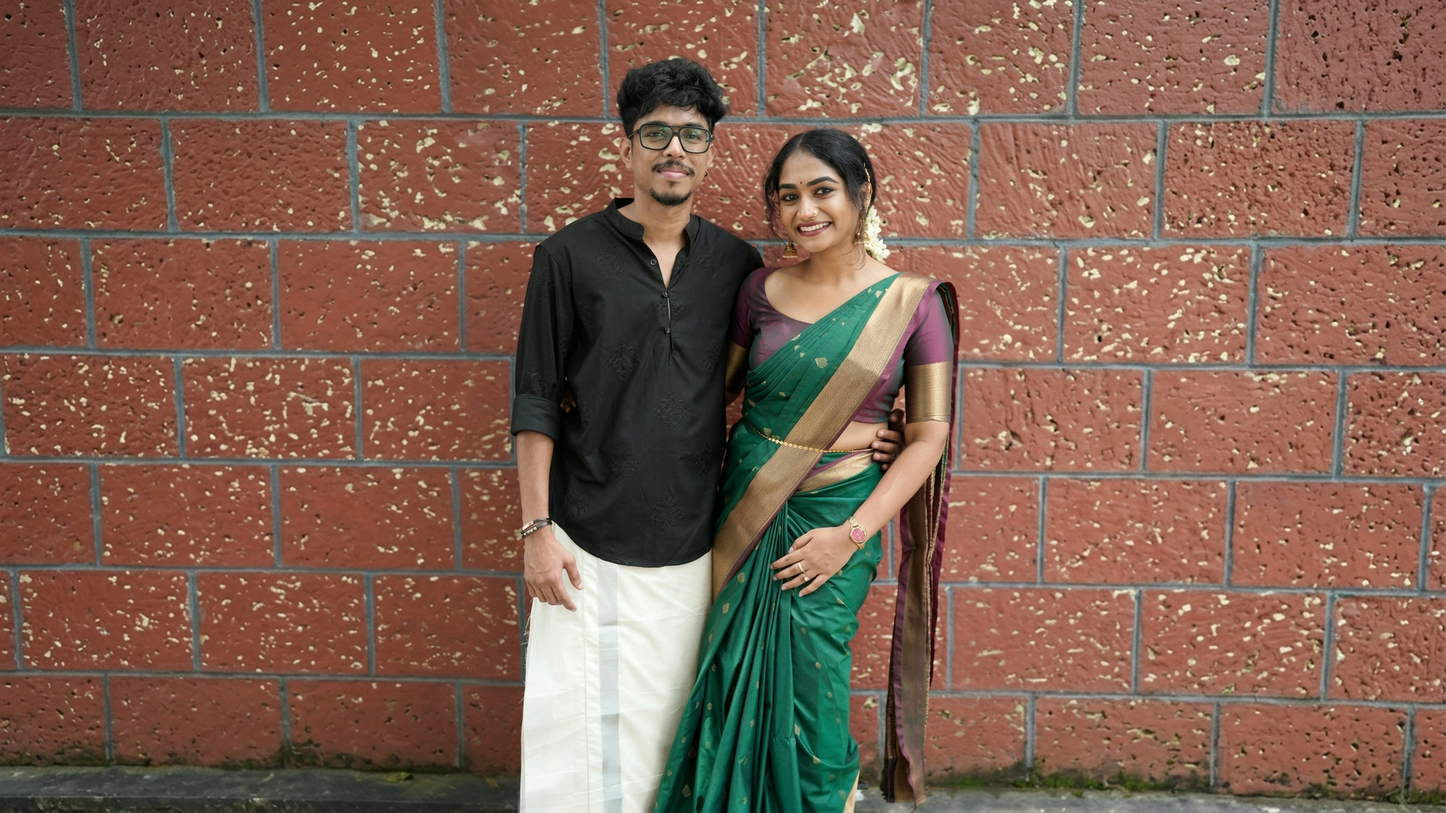
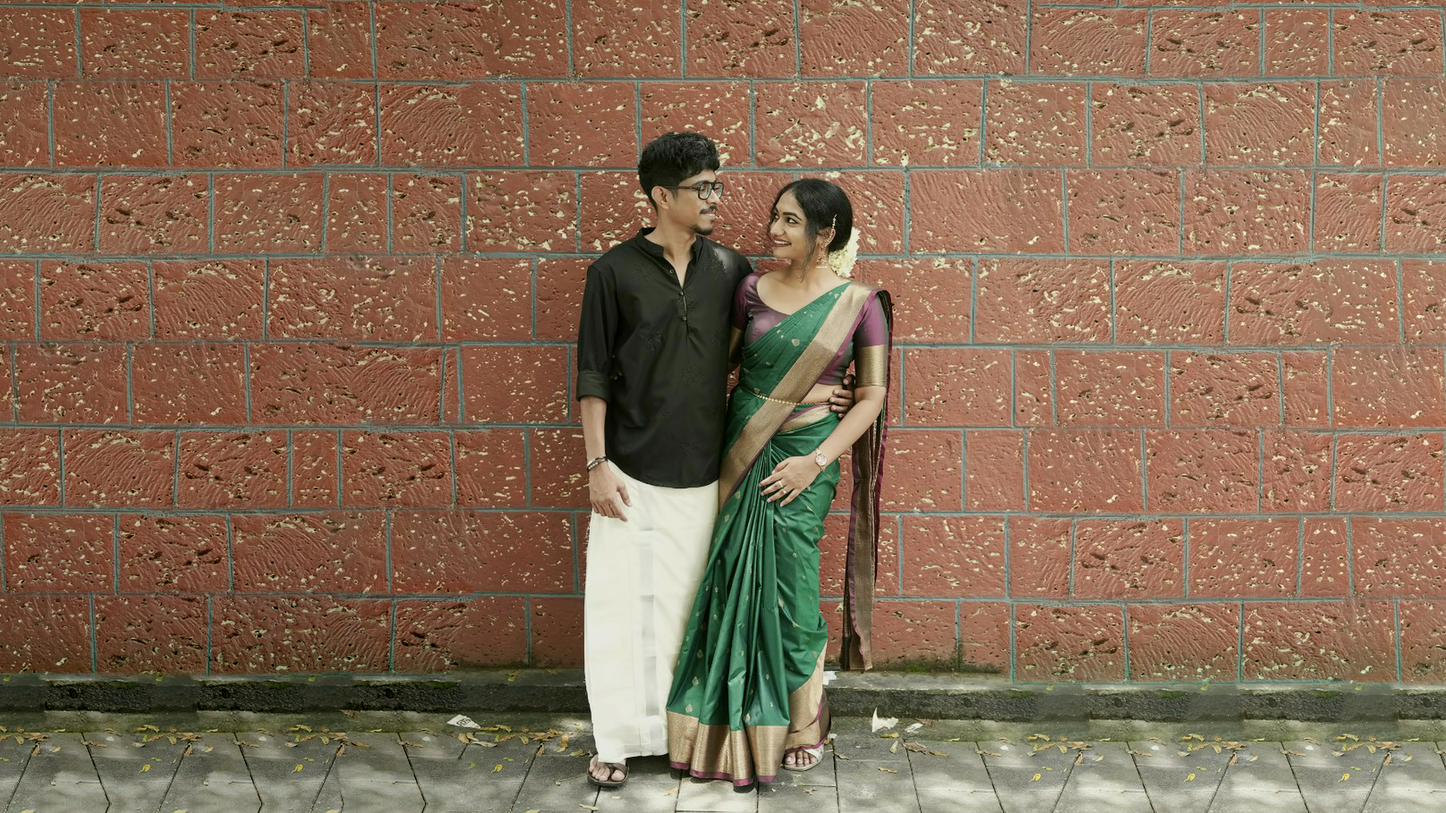
feat: update candid 4K hero portraits with clear mobile framing and 160+ year Kodanat Mana heritage detail

diff --git a/index.html b/index.html
@@ -10,13 +10,13 @@
   <meta property="og:url" content="https://aswin-and-athira.netlify.app/" />
   <meta property="og:title" content="Aswin &amp; Athira — The Wedding Celebration | Dec 27–28, 2026" />
   <meta property="og:description" content="With great joy, we invite you to celebrate our sacred wedding union at Kodanat Mana, Thrissur, Kerala." />
-  <meta property="og:image" content="https://aswin-and-athira.netlify.app/assets/images/og-preview.jpg" />
+  <meta property="og:image" content="https://aswin-and-athira.netlify.app/assets/images/og-preview.jpg?v=4k2" />
   <meta property="og:image:width" content="1200" />
   <meta property="og:image:height" content="675" />
 
   <!-- Preload 4K UHD Couple Hero Portraits for Instant Mobile & Desktop Render -->
-  <link rel="preload" as="image" href="assets/images/hero-couple.jpg?v=4k" media="(max-width: 767px)" />
-  <link rel="preload" as="image" href="assets/images/hero-couple-4k-desktop.jpg?v=4k" media="(min-width: 768px)" />
+  <link rel="preload" as="image" href="assets/images/hero-couple.jpg?v=4k3" media="(max-width: 767px)" />
+  <link rel="preload" as="image" href="assets/images/hero-couple-4k-desktop.jpg?v=4k3" media="(min-width: 768px)" />
 
   <!-- Tailwind CSS CDN -->
   <script src="https://cdn.tailwindcss.com?plugins=forms,container-queries"></script>
@@ -314,15 +314,15 @@
        ======================================================================== -->
   <section
     id="hero"
-    class="relative min-h-screen min-h-[100svh] flex items-end justify-center overflow-hidden bg-emerald-950 text-ivory-50 pt-[19.5rem] sm:pt-72 md:pt-[max(18.5rem,34vh)] pb-10 sm:pb-12"
+    class="relative min-h-screen min-h-[100svh] flex items-start md:items-end justify-center overflow-hidden bg-emerald-950 text-ivory-50 pt-[17.25rem] md:pt-[max(19rem,35vh)] pb-10 sm:pb-12"
   >
-    <!-- Hero Couple Portrait Backdrop (4K UHD Restored Original Photo — Mobile 2544x3792 & Desktop 3840x2160) -->
-    <div class="absolute inset-x-0 bottom-0 top-14 sm:top-16 md:top-10 lg:top-8 z-0 overflow-hidden">
+    <!-- Hero Couple Portrait Backdrop (4K UHD Restored Photo — Shifted Up on Mobile for Clear Face Window) -->
+    <div class="absolute inset-x-0 top-3 h-[660px] md:inset-0 md:h-auto z-0 overflow-hidden">
       <picture class="block w-full h-full">
-        <source media="(min-width: 768px)" srcset="assets/images/hero-couple-4k-desktop.jpg?v=4k" />
+        <source media="(min-width: 768px)" srcset="assets/images/hero-couple-4k-desktop.jpg?v=4k3" />
         <img
           id="hero-bg-img"
-          src="assets/images/hero-couple.jpg?v=4k"
+          src="assets/images/hero-couple.jpg?v=4k3"
           alt="Aswin and Athira Wedding Portrait"
           fetchpriority="high"
           decoding="async"
@@ -692,7 +692,7 @@
             <div class="w-12 sm:w-14 h-[1px] bg-champagne-400 my-4 sm:my-5"></div>
 
             <p class="font-serif text-lg sm:text-xl text-slate-700 font-light leading-relaxed mb-6 sm:mb-7">
-              A historic <strong class="text-emerald-950 font-medium">150+ year old traditional Kerala Mana</strong> nestled amidst serene greenery and timeless wooden architecture, <strong class="text-emerald-950 font-medium">Kodanat Mana</strong> welcomes you for all our wedding celebrations.
+              A historic <strong class="text-emerald-950 font-medium">160+ year old traditional Kerala Mana</strong> nestled amidst serene greenery and timeless wooden architecture, <strong class="text-emerald-950 font-medium">Kodanat Mana</strong> welcomes you for all our wedding celebrations.
             </p>
 
             <!-- Essential Details List -->
@@ -701,7 +701,7 @@
                 <div class="flex items-start space-x-2.5 sm:space-x-3">
                   <i data-lucide="map" class="w-4 h-4 text-champagne-600 mt-0.5 flex-shrink-0"></i>
                   <div class="font-light leading-relaxed">
-                    <span class="font-medium text-emerald-950">Kodanat Mana</span> (150+ Year Old Heritage Mana), Vellarakkad, Thrissur, Kerala 680584
+                    <span class="font-medium text-emerald-950">Kodanat Mana</span> (160+ Year Old Heritage Mana), Vellarakkad, Thrissur, Kerala 680584
                   </div>
                 </div>
                 <button

diff --git a/css/styles.css b/css/styles.css
@@ -81,14 +81,14 @@ body {
 
 /* Hero Editorial Portrait Focal Framing & Slow Ken Burns Animation */
 .hero-bg-focal {
-  object-position: 53% 0%;
-  transform-origin: 53% 18%;
+  object-position: 48.5% 0%;
+  transform-origin: 48.5% 22%;
 }
 
 @media (min-width: 768px) {
   .hero-bg-focal {
-    object-position: 50.5% 0%;
-    transform-origin: 50.5% 18%;
+    object-position: 50.5% 12%;
+    transform-origin: 50.5% 25%;
   }
 }
 
@@ -97,7 +97,7 @@ body {
     transform: scale(1.005) translate3d(0, 0, 0);
   }
   50% {
-    transform: scale(1.035) translate3d(-0.3%, -0.2%, 0);
+    transform: scale(1.03) translate3d(-0.25%, -0.15%, 0);
   }
   100% {
     transform: scale(1.005) translate3d(0, 0, 0);
@@ -109,25 +109,25 @@ body {
   will-change: transform;
 }
 
-/* Clear Upper Portrait Window + Luxury Emerald Readability Scrim */
+/* Clear Upper Portrait Window + Seamless Bottom Fade into Emerald-950 (#051812) */
 .hero-portrait-overlay {
   background: linear-gradient(
     to bottom,
-    rgba(5, 24, 18, 0.68) 0%,
-    rgba(5, 24, 18, 0.12) 8%,
-    rgba(5, 24, 18, 0.06) 20%,
-    rgba(5, 24, 18, 0.2) 32%,
-    rgba(5, 24, 18, 0.7) 44%,
-    rgba(5, 24, 18, 0.88) 64%,
-    rgba(5, 24, 18, 0.98) 100%
+    rgba(5, 24, 18, 0.55) 0%,
+    rgba(5, 24, 18, 0.08) 14%,
+    rgba(5, 24, 18, 0.05) 28%,
+    rgba(5, 24, 18, 0.18) 39%,
+    rgba(5, 24, 18, 0.72) 55%,
+    rgba(5, 24, 18, 0.92) 78%,
+    rgba(5, 24, 18, 1) 100%
   );
 }
 
 .hero-portrait-vignette {
   background: radial-gradient(
-    ellipse 88% 40% at 53% 21%,
-    rgba(5, 24, 18, 0) 46%,
-    rgba(5, 24, 18, 0.54) 100%
+    ellipse 88% 42% at 48.5% 24%,
+    rgba(5, 24, 18, 0) 48%,
+    rgba(5, 24, 18, 0.52) 100%
   );
 }
 
@@ -135,11 +135,11 @@ body {
   .hero-portrait-overlay {
     background: linear-gradient(
       to bottom,
-      rgba(5, 24, 18, 0.56) 0%,
-      rgba(5, 24, 18, 0.1) 10%,
-      rgba(5, 24, 18, 0.06) 22%,
-      rgba(5, 24, 18, 0.22) 34%,
-      rgba(5, 24, 18, 0.68) 48%,
+      rgba(5, 24, 18, 0.52) 0%,
+      rgba(5, 24, 18, 0.08) 14%,
+      rgba(5, 24, 18, 0.06) 26%,
+      rgba(5, 24, 18, 0.22) 36%,
+      rgba(5, 24, 18, 0.68) 49%,
       rgba(5, 24, 18, 0.86) 68%,
       rgba(5, 24, 18, 0.97) 100%
     );
@@ -147,7 +147,7 @@ body {
 
   .hero-portrait-vignette {
     background: radial-gradient(
-      ellipse 70% 46% at 50.5% 22%,
+      ellipse 70% 46% at 50.5% 25%,
       rgba(5, 24, 18, 0) 44%,
       rgba(5, 24, 18, 0.62) 100%
     );

diff --git a/js/app.js b/js/app.js
@@ -360,9 +360,9 @@
       start: '20261227T100000Z',
       end: '20261228T083000Z',
       location:
-        'Kodanat Mana (150+ Year Old Heritage Mana), Vellarakkad, Thrissur, Kerala 680584, India',
+        'Kodanat Mana (160+ Year Old Heritage Mana), Vellarakkad, Thrissur, Kerala 680584, India',
       description:
-        'Celebration Itinerary at Kodanat Mana (150+ Year Old Traditional Kerala Mana):\\n- Sunday, Dec 27, 2026 (3:30 PM): The Haldi Ceremony (Outdoor Lawn • Color Code: Yellow)\\n- Sunday, Dec 27, 2026 (6:30 PM): The Grand Sangeeth (Outdoor Lawn • Color Code: Black)\\n- Monday, Dec 28, 2026 (Muhurtham starts from 10:00AM): The Wedding Ceremony (Inside Kodanat Mana • Dress Code: Traditional Wear)\\nNearest Railway Station: Guruvayur Railway Station\\nGoogle Maps: https://www.google.com/maps/place/Kodanat+Mana/data=!4m2!3m1!1s0x0:0x7e9172ab833b3dd6?sa=X&ved=1t:2428&ictx=111',
+        'Celebration Itinerary at Kodanat Mana (160+ Year Old Traditional Kerala Mana):\\n- Sunday, Dec 27, 2026 (3:30 PM): The Haldi Ceremony (Outdoor Lawn • Color Code: Yellow)\\n- Sunday, Dec 27, 2026 (6:30 PM): The Grand Sangeeth (Outdoor Lawn • Color Code: Black)\\n- Monday, Dec 28, 2026 (Muhurtham starts from 10:00AM): The Wedding Ceremony (Inside Kodanat Mana • Dress Code: Traditional Wear)\\nNearest Railway Station: Guruvayur Railway Station\\nGoogle Maps: https://www.google.com/maps/place/Kodanat+Mana/data=!4m2!3m1!1s0x0:0x7e9172ab833b3dd6?sa=X&ved=1t:2428&ictx=111',
       filename: 'Aswin-Athira-Wedding-Kodanat-Mana.ics',
     },
   };
@@ -408,7 +408,7 @@
   if (copyAddressBtn) {
     copyAddressBtn.addEventListener('click', () => {
       const addr =
-        'Kodanat Mana (150+ Year Old Heritage Mana), Vellarakkad, Thrissur, Kerala 680584, India';
+        'Kodanat Mana (160+ Year Old Heritage Mana), Vellarakkad, Thrissur, Kerala 680584, India';
       if (navigator.clipboard && navigator.clipboard.writeText) {
         navigator.clipboard.writeText(addr).then(() => {
           showToast('Venue address copied to clipboard!', 'check-circle');
